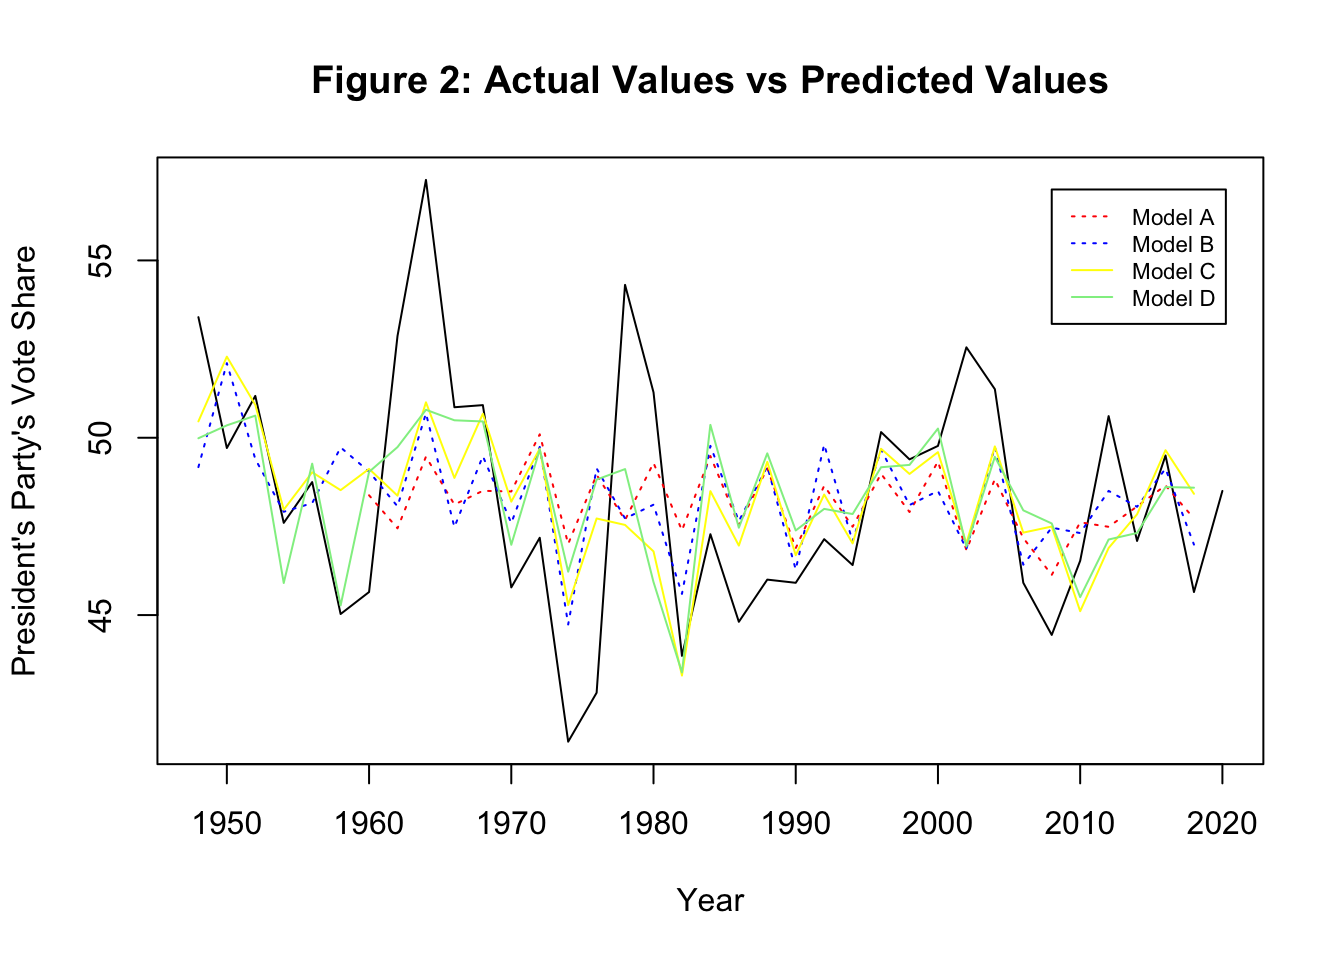
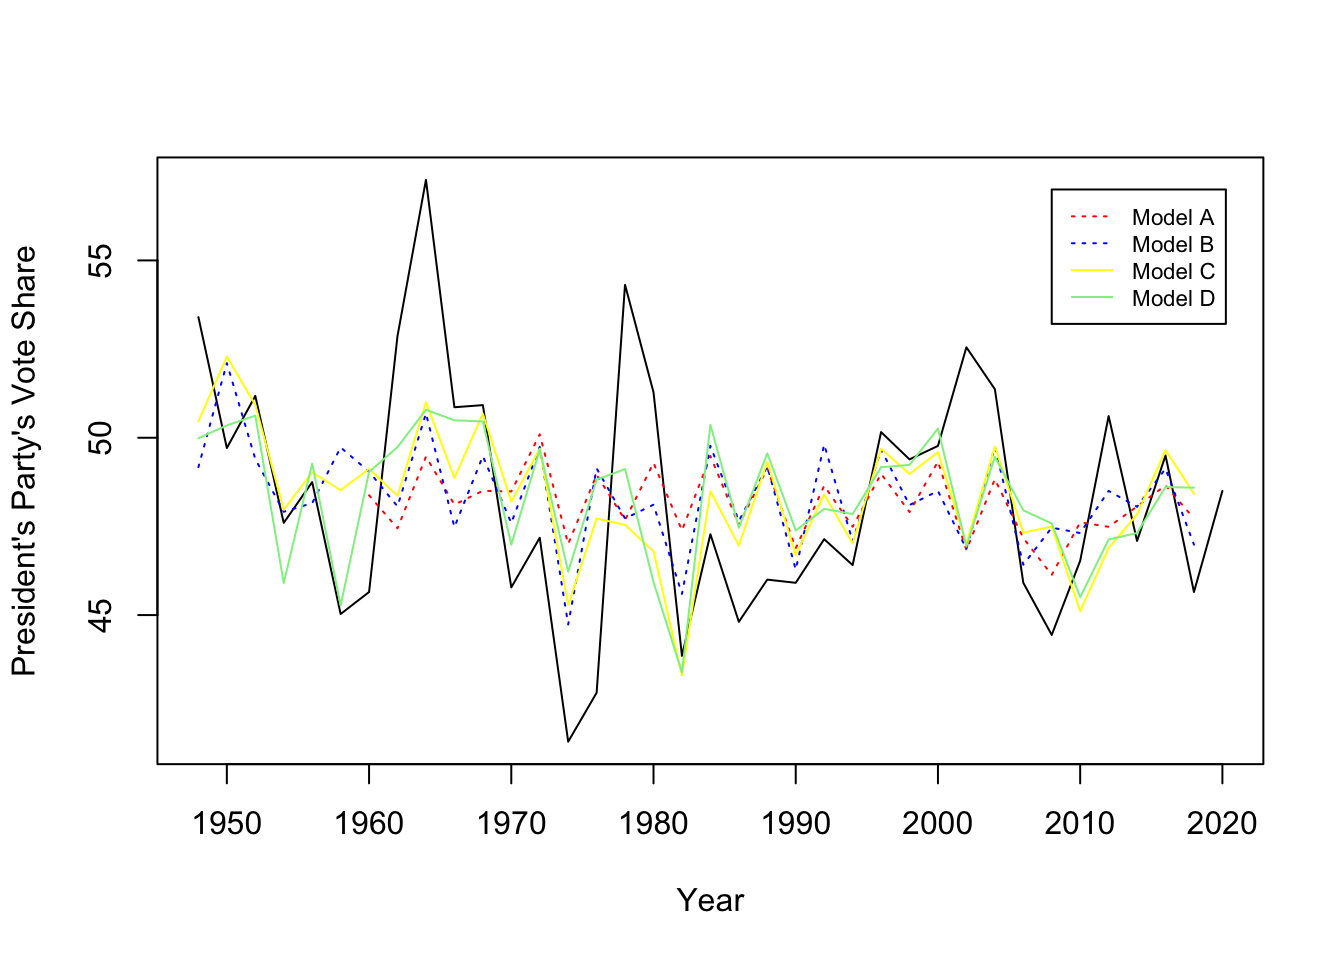
Fix error in plots

Changed region(s): [[0.2188, 0.0625, 0.8438, 0.125]]

diff --git a/content/posts/02-economy/index.html b/content/posts/02-economy/index.html
@@ -12,15 +12,15 @@ output: html_document
 <p><img src="table1.png" /></p>
 <div id="whats-wrong-with-these-models-multicollinearity" class="section level4">
 <h4>What’s wrong with these models?: Multicollinearity</h4>
-<p>-0.72 and (p-value: r format(cor.test.results$p.value, 2, scientific = TRUE, digits = 2)`)</p>
+<p>-0.72 and (p-value: 4.2e-06)</p>
 <p>0.58 (p-value: 8e-04)</p>
 </div>
 <div id="whats-wrong-with-these-models-outlier" class="section level4">
 <h4>What’s wrong with these models?: Outlier</h4>
 <div class="figure"><span style="display:block;" id="fig:outlier"></span>
-<img src="{{< blogdown/postref >}}index_files/figure-html/outlier-1.png" alt="Figure 1: GDP Growth vs RDI Growth: Q7-Q8" width="672" />
+<img src="{{< blogdown/postref >}}index_files/figure-html/outlier-1.png" alt="GDP Growth vs RDI Growth: Q7-Q8" width="672" />
 <p class="caption">
-Figure 1: Figure 1: GDP Growth vs RDI Growth: Q7-Q8
+Figure 1: GDP Growth vs RDI Growth: Q7-Q8
 </p>
 </div>
 </div>
@@ -31,16 +31,16 @@ Figure 1: Figure 1: GDP Growth vs RDI Growth: Q7-Q8
 </div>
 <div id="model-testing-and-predictions" class="section level2">
 <h2>Model Testing and Predictions</h2>
-<div class="figure">
-<img src="{{< blogdown/postref >}}index_files/figure-html/plot%20residuals-1.png" alt="Actual Values vs Predicted Values" width="672" />
+<div class="figure"><span style="display:block;" id="fig:unnamed-chunk-1"></span>
+<img src="{{< blogdown/postref >}}index_files/figure-html/unnamed-chunk-1-1.png" alt="Actual Values vs Predicted Values" width="672" />
 <p class="caption">
-(#fig:plot residuals)Actual Values vs Predicted Values
+Figure 2: Actual Values vs Predicted Values
 </p>
 </div>
-<div class="figure">
-<img src="{{< blogdown/postref >}}index_files/figure-html/combine%20table%20with%20plots-1.png" alt="Model Testing &amp; Predictions" width="672" />
+<div class="figure"><span style="display:block;" id="fig:unnamed-chunk-2"></span>
+<img src="{{< blogdown/postref >}}index_files/figure-html/unnamed-chunk-2-1.png" alt="Model Testing &amp; Predictions" width="672" />
 <p class="caption">
-(#fig:combine table with plots)Model Testing &amp; Predictions
+Figure 3: Model Testing &amp; Predictions
 </p>
 </div>
 <div id="predictions" class="section level3">
